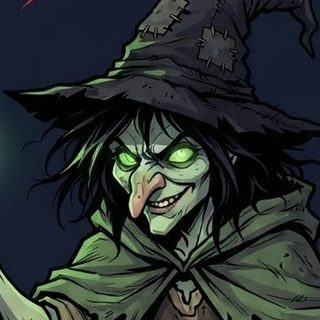
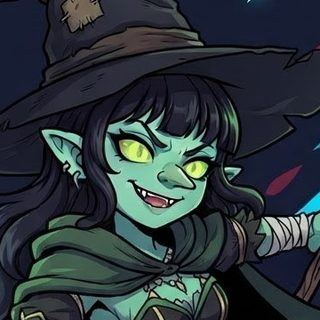
art: Brutile redrawn in the house illustration style (1-3 star), face crops re-centred
Claude-Session: https://claude.ai/code/session_01CHbyEtdGcc9JJBQ25d4ssC

diff --git a/docs/brand/process-illust.py b/docs/brand/process-illust.py
@@ -18,9 +18,9 @@ FACE = {
     'walk': (0.04, 0.06, 0.62, 0.46),
     'insaner': (0.12, 0.06, 0.70, 0.48),
     'brutile': {
-        1: (0.27, 0.11, 0.67, 0.41),
-        2: (0.25, 0.17, 0.75, 0.55),
-        3: (0.24, 0.10, 0.76, 0.49),
+        1: (0.326, 0.144, 0.728, 0.444),
+        2: (0.343, 0.231, 0.744, 0.531),
+        3: (0.312, 0.152, 0.714, 0.453),
     },
 }
 for f in sorted(SRC.glob('illust-*.jpg')):
